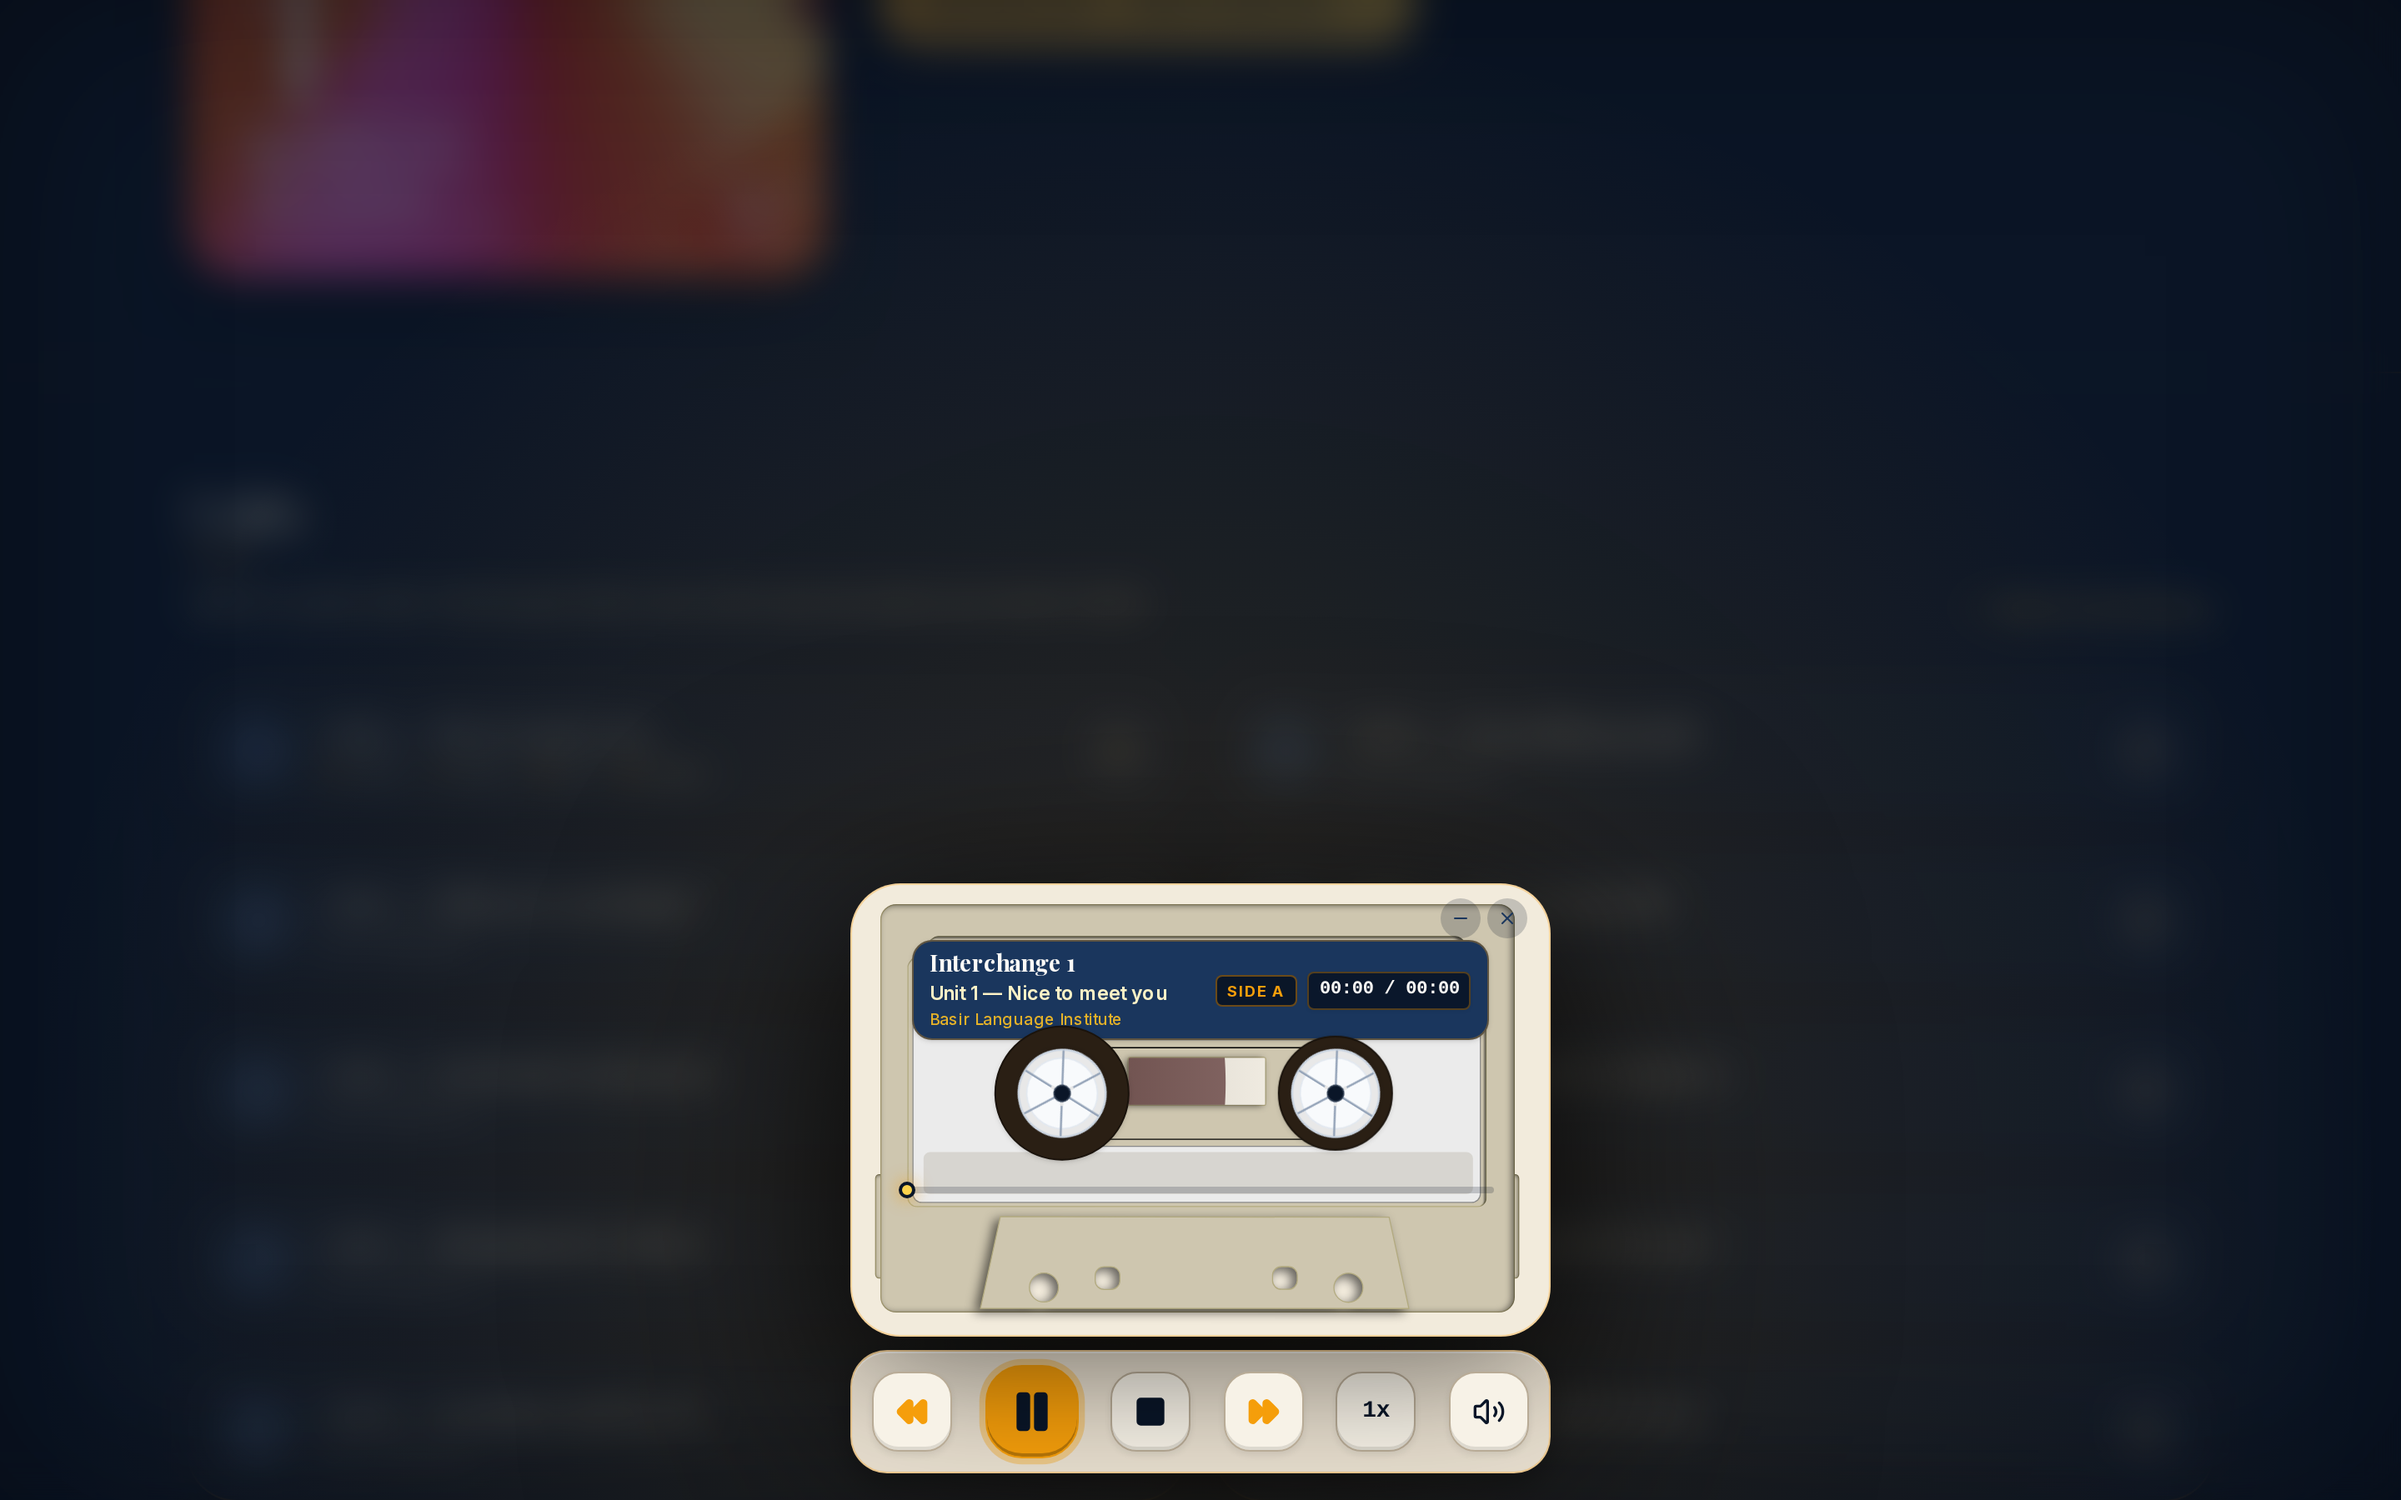
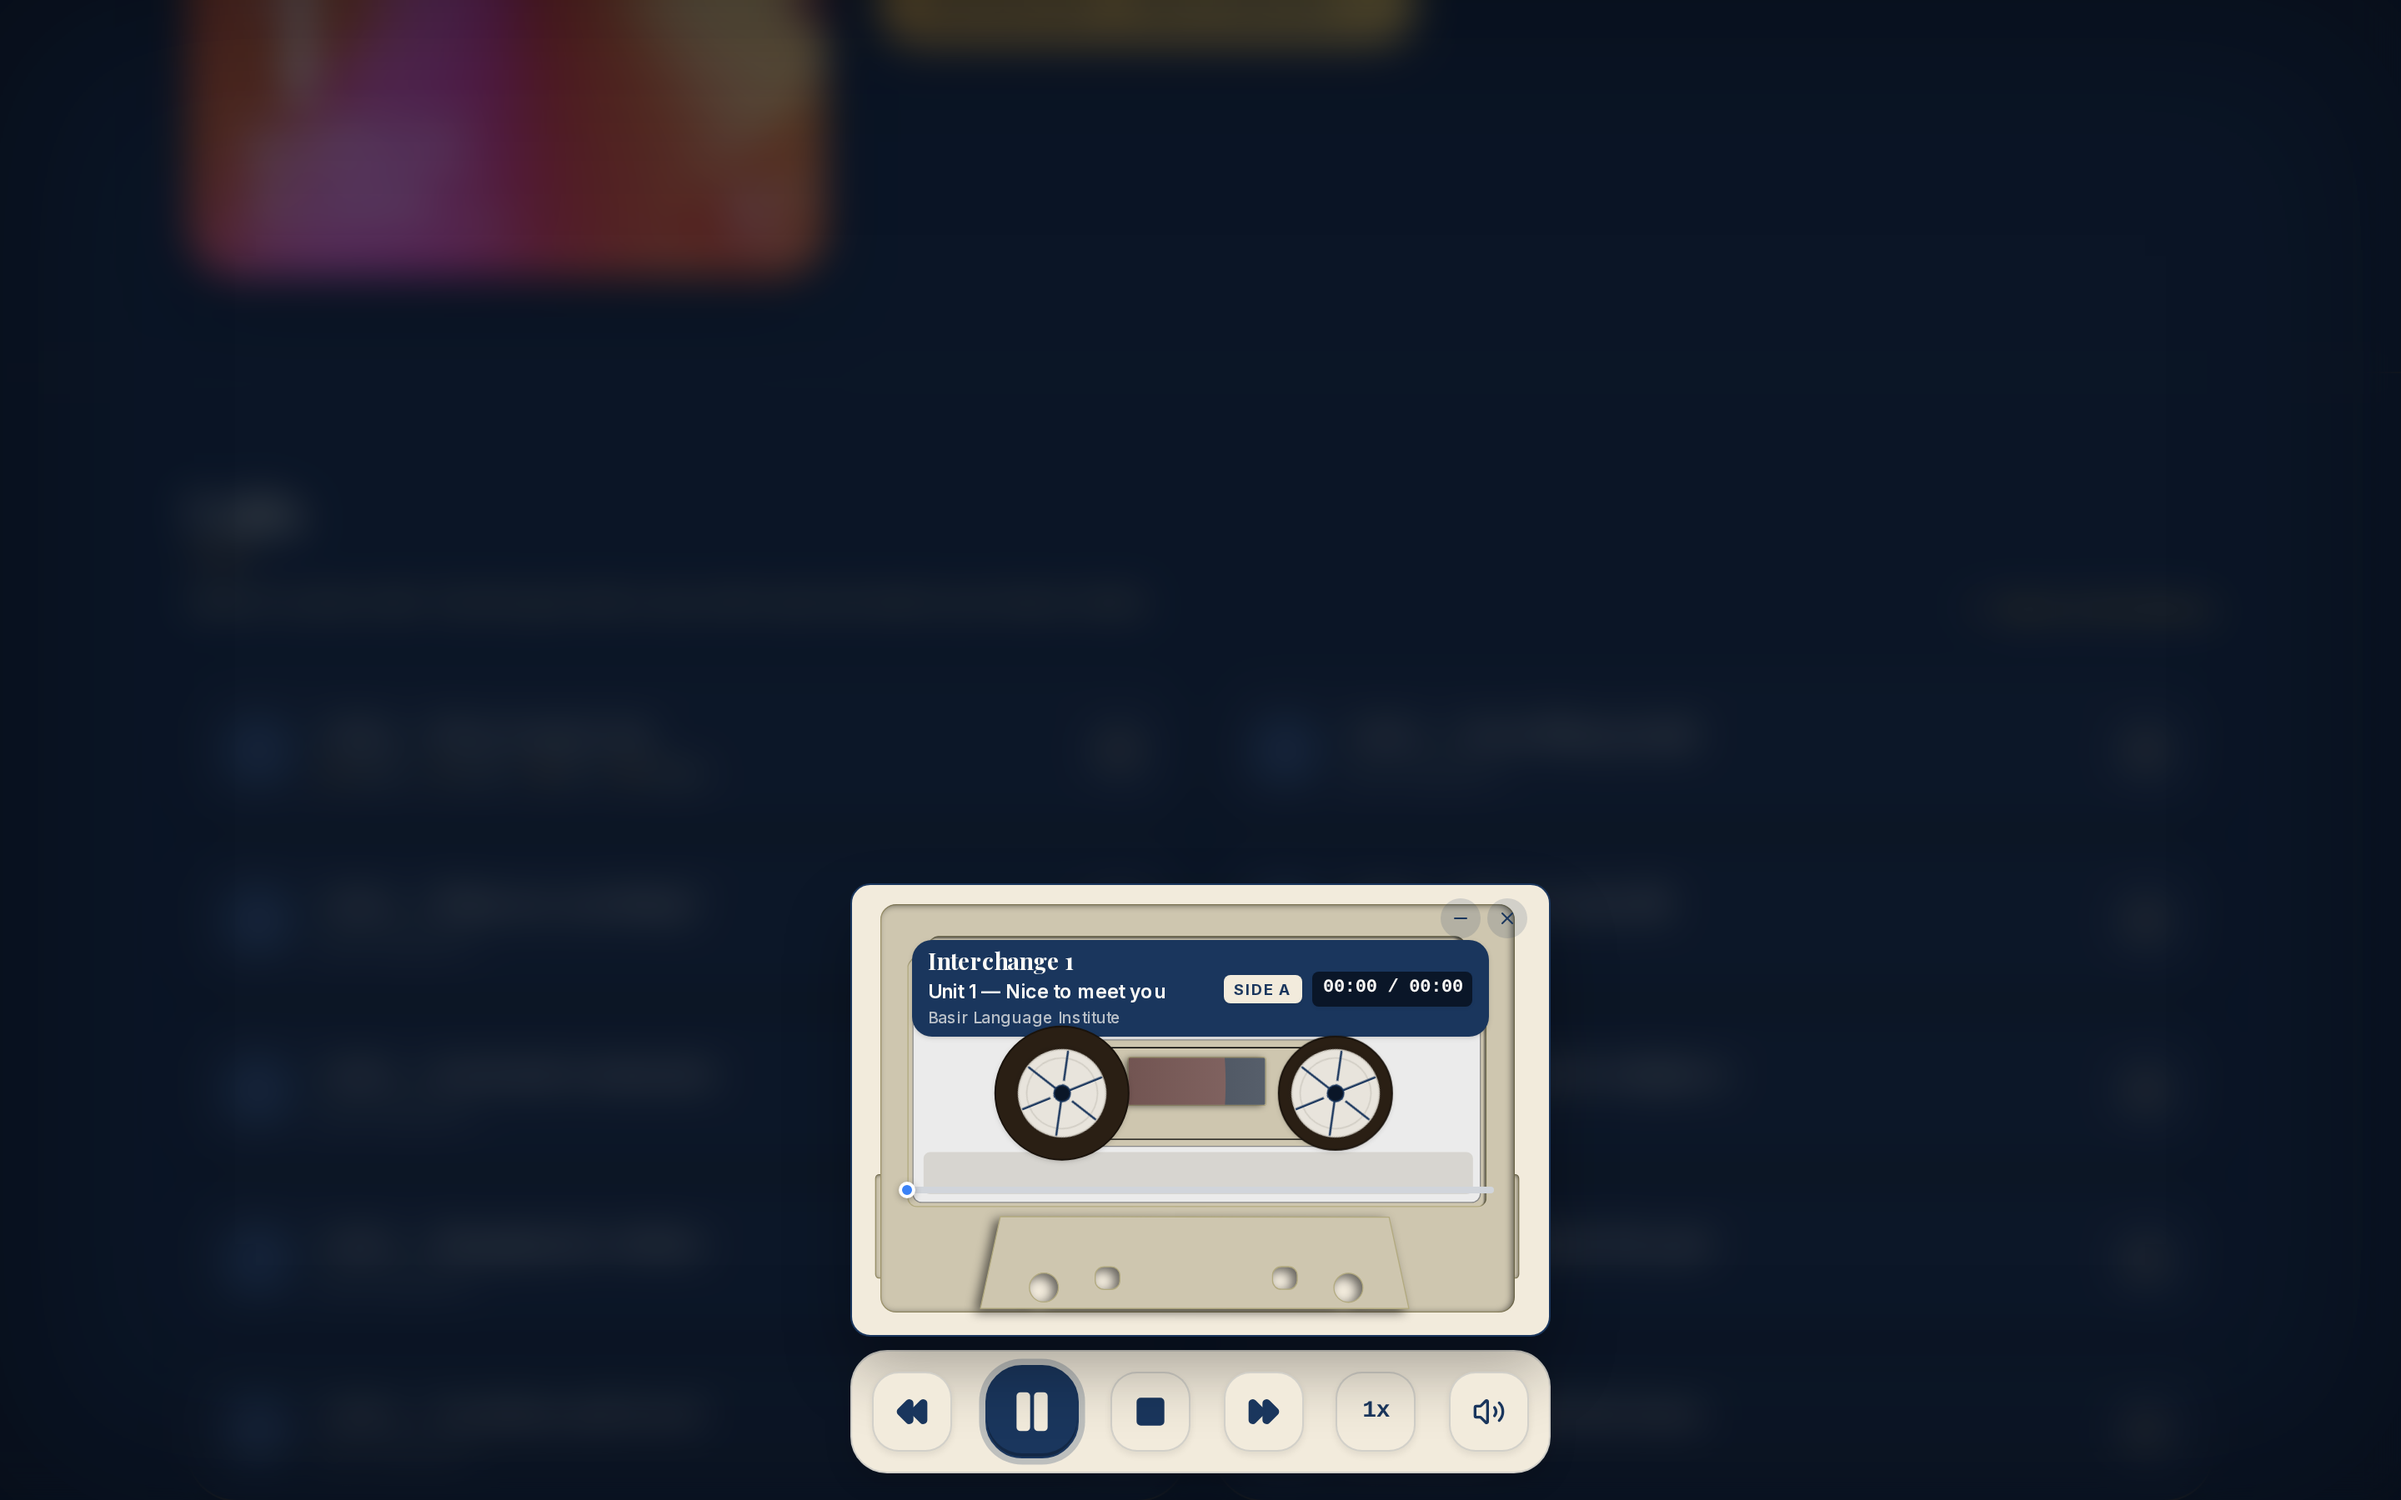
fix(cassette): ensure label typography truncate and strict fixed reference layout

diff --git a/src/components/books/audio-mini-player.tsx b/src/components/books/audio-mini-player.tsx
@@ -604,19 +604,19 @@ export function AudioMiniPlayer({ track, onClose }: AudioMiniPlayerProps) {
                 {/* Left: Book Title "Interchange 1" in #FDFBF7 (serif), Subtitle in #FDFBF7, Institute in #FDFBF7 at 70% opacity */}
                 <div className="flex flex-col min-w-0 pr-2">
                   <h3
-                    className="font-serif text-[12px] sm:text-[14px] font-bold leading-none tracking-tight"
+                    className="font-serif text-[12px] sm:text-[14px] font-bold leading-none tracking-tight truncate"
                     style={{ color: "#FDFBF7" }}
                   >
                     {track.bookTitle || "Interchange 1"}
                   </h3>
                   <p
-                    className="font-sans text-[10px] sm:text-[11.5px] font-semibold leading-tight mt-1"
+                    className="font-sans text-[10px] sm:text-[11.5px] font-semibold leading-tight mt-1 truncate"
                     style={{ color: "#FDFBF7" }}
                   >
                     {track.title}
                   </p>
                   <p
-                    className="font-sans text-[8px] sm:text-[9.5px] font-medium leading-none mt-1"
+                    className="font-sans text-[8px] sm:text-[9.5px] font-medium leading-none mt-1 truncate"
                     style={{ color: "rgba(253, 251, 247, 0.7)" }}
                   >
                     Basir Language Institute
